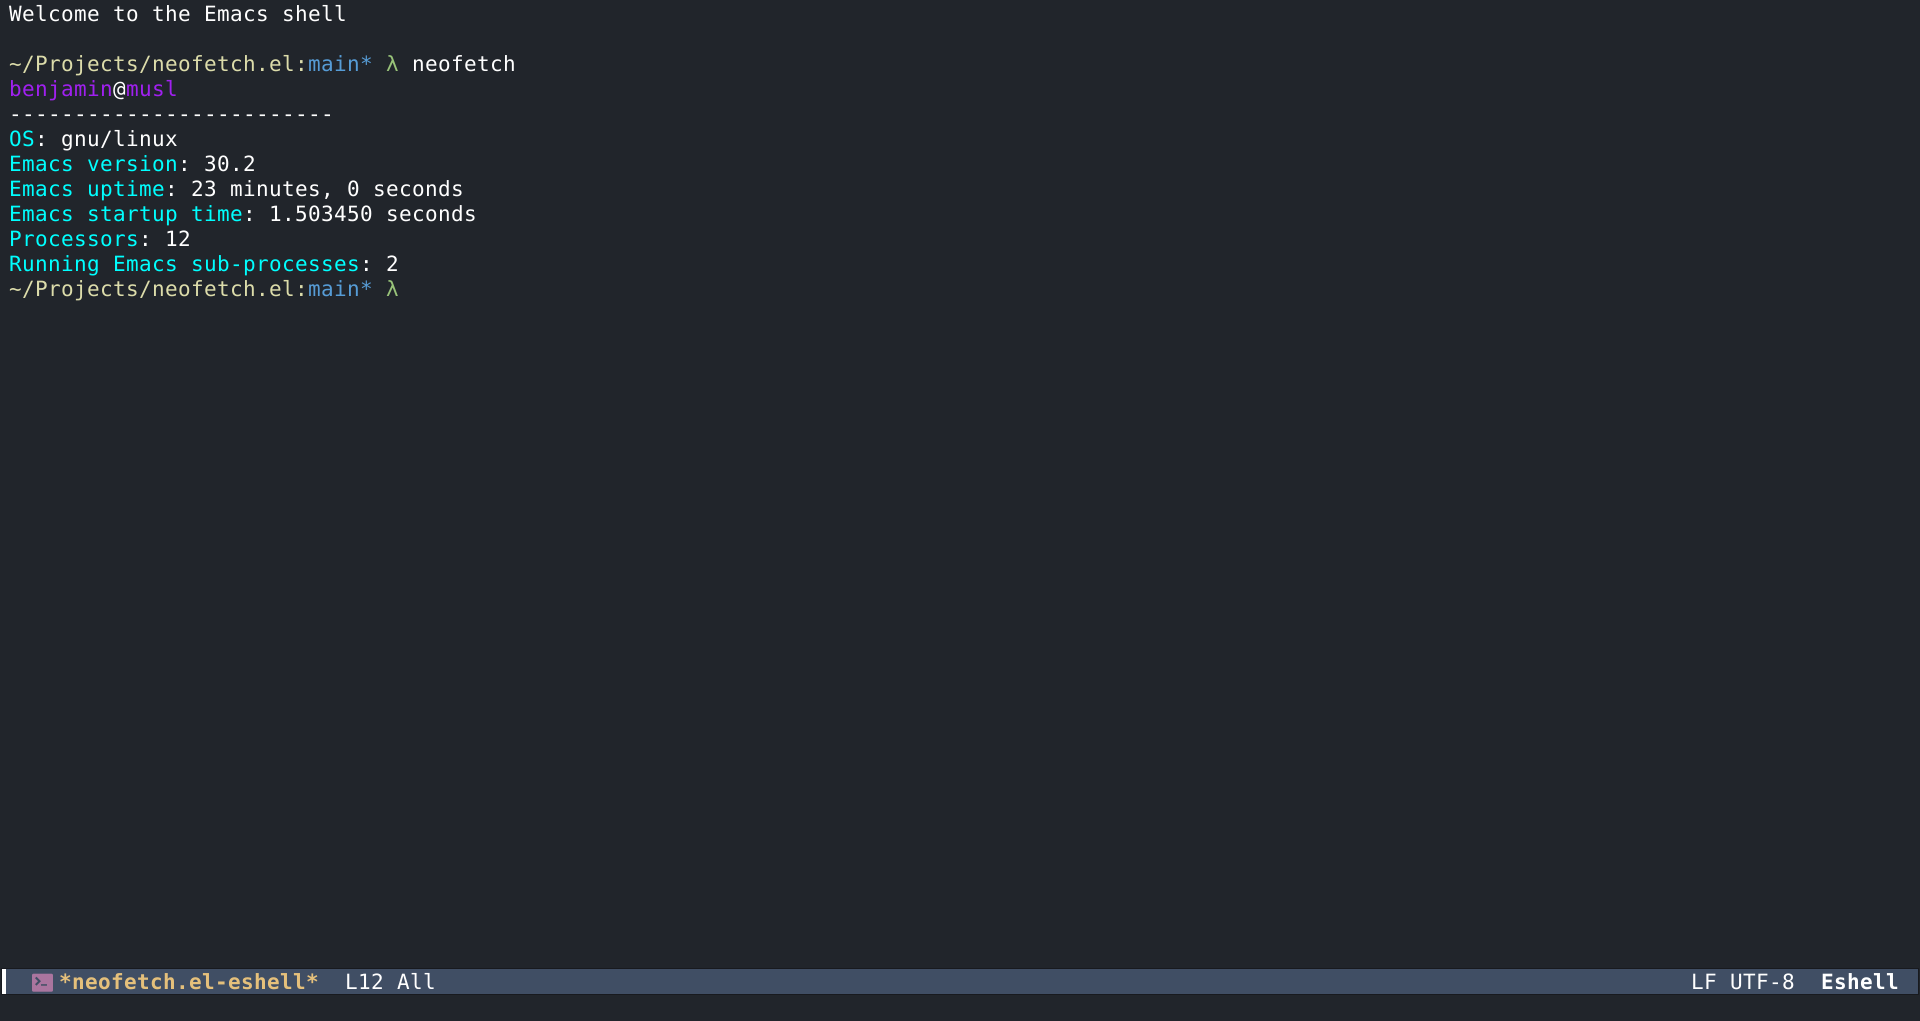
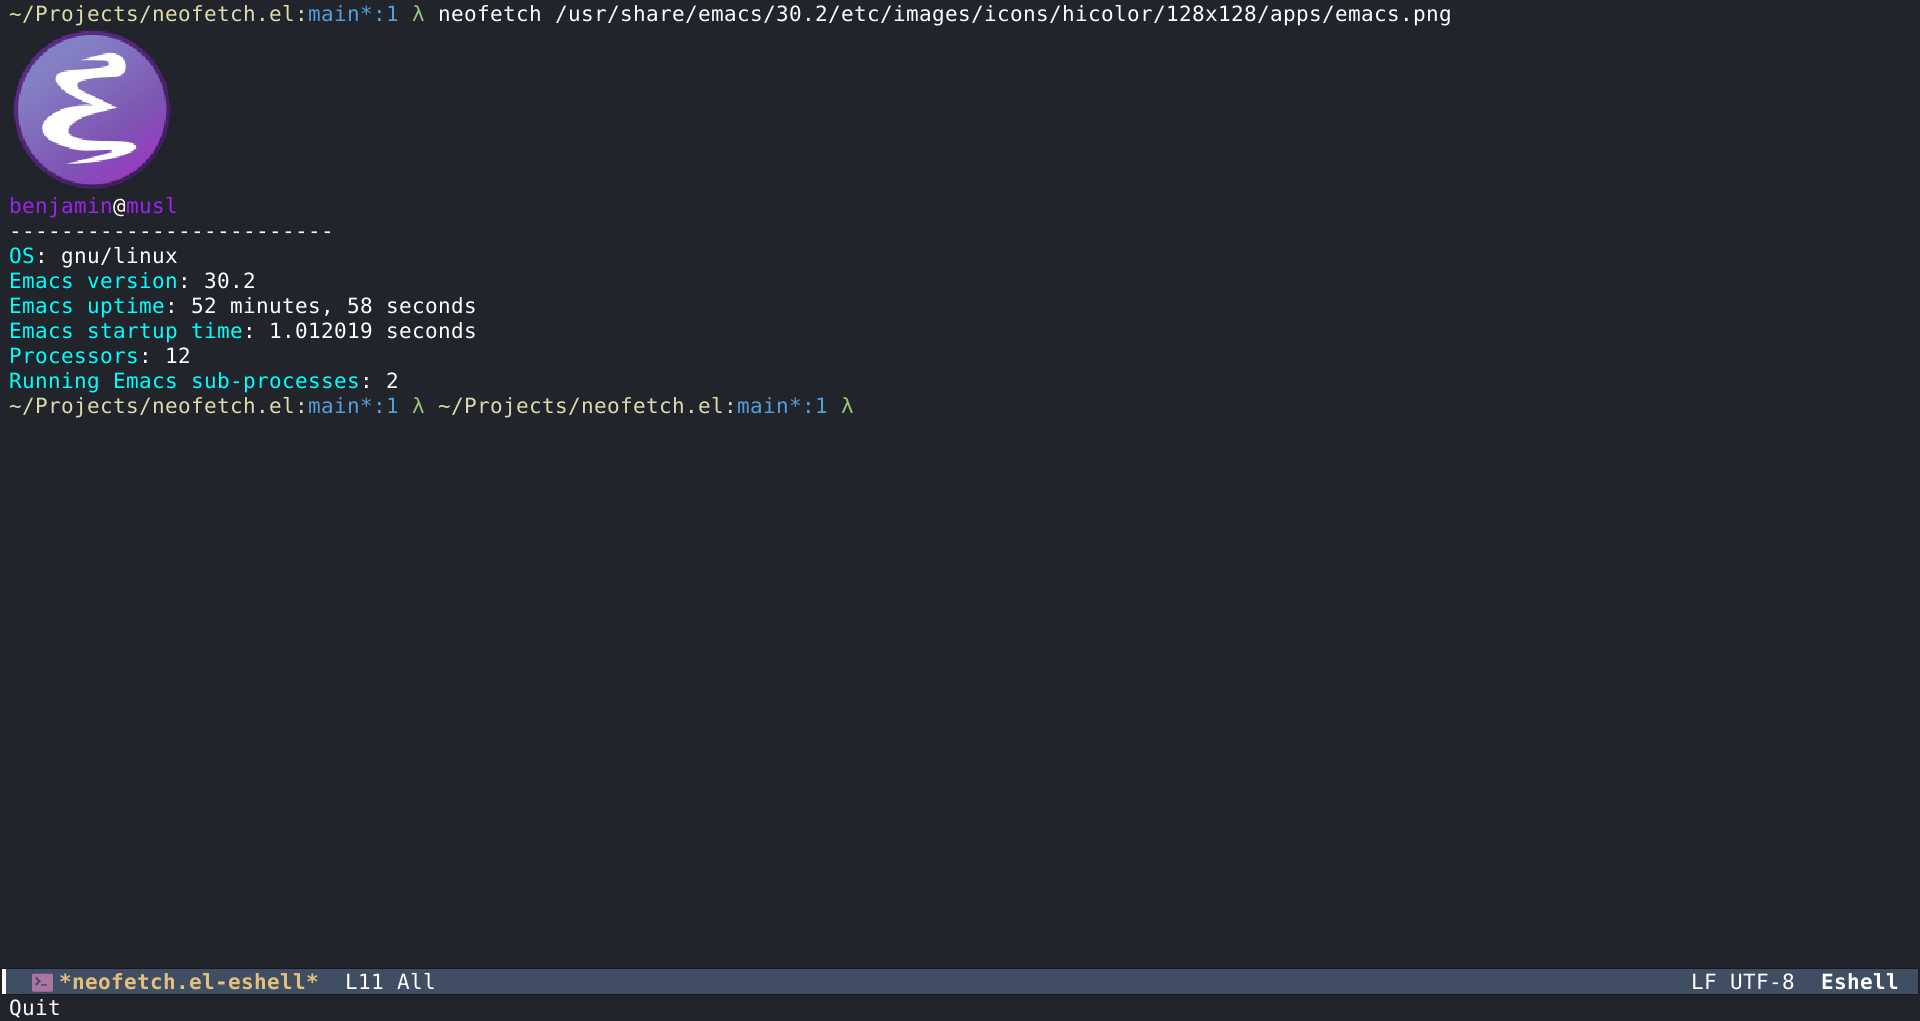
update

diff --git a/README.md b/README.md
@@ -8,7 +8,7 @@ Just copy neofetch.el to a directory in your `load-path`. Make sure to require '
 
 ## Usage
 
-Run it in Eshell. neofetch without arguments wi
+Run it in Eshell. neofetch without arguments will not print a logo. Run neofetch with the path to an image to get a logo
 
 ## Notes
 
